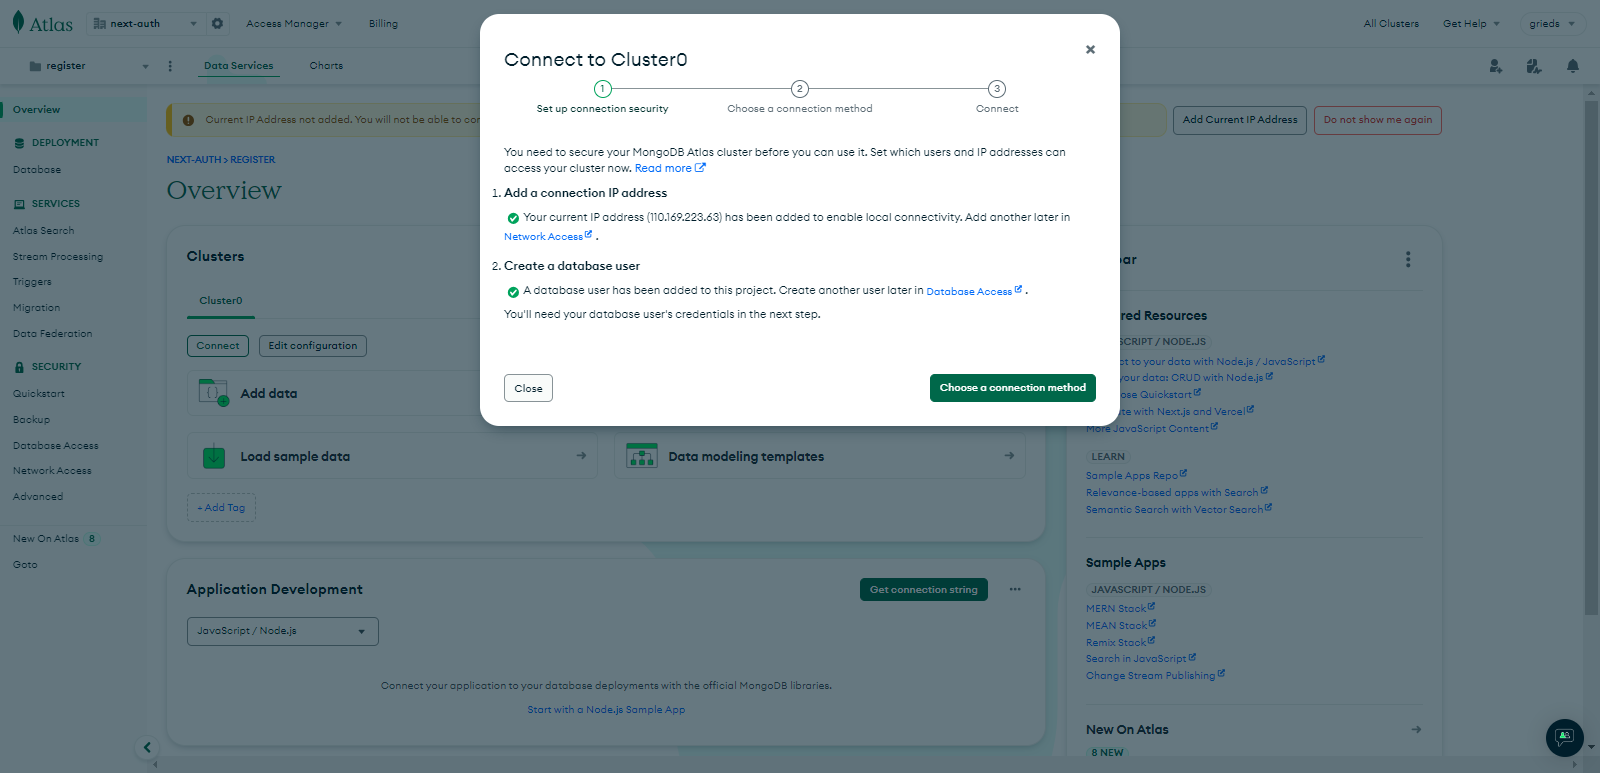
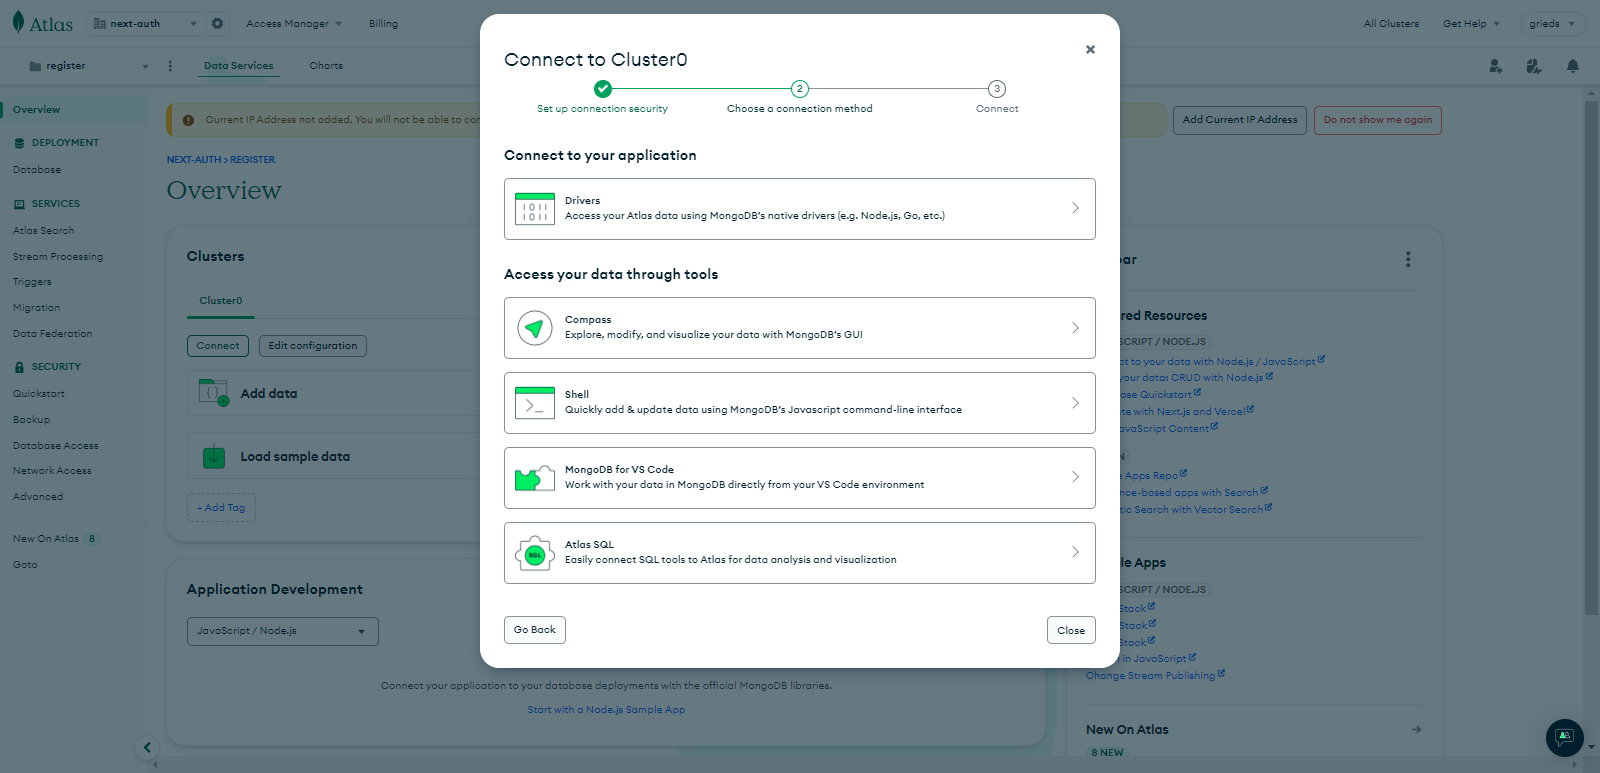
update

diff --git a/docs/step4.md b/docs/step4.md
@@ -57,3 +57,18 @@ Click to Button >> Connect to Cluster
 
 ![alt text](src/mongodb-step13.png)
 
+Click to Button >> MongoDB for VS Code
+
+![alt text](src/mongodb-step14.png)
+
+Copy :
+
+`mongodb+srv://Admin:<db_password>@cluster0.7f15f.mongodb.net/`
+
+Click to Button >> Done
+
+![alt text](src/mongodb-step15.png)
+
+Go to Project on VS Code
+
+
